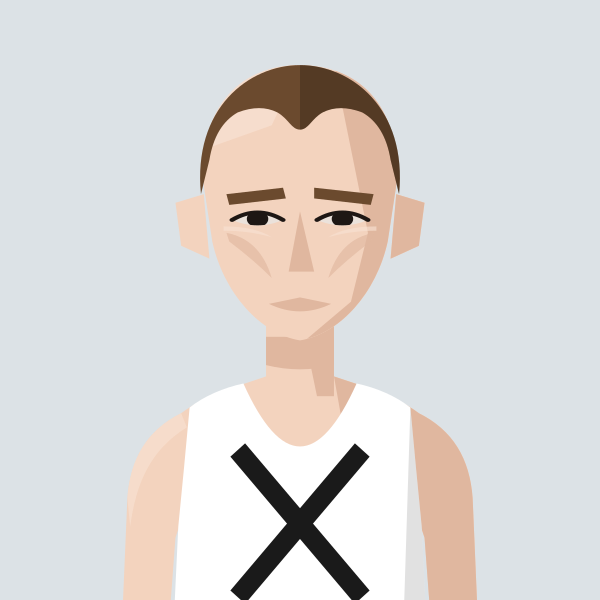
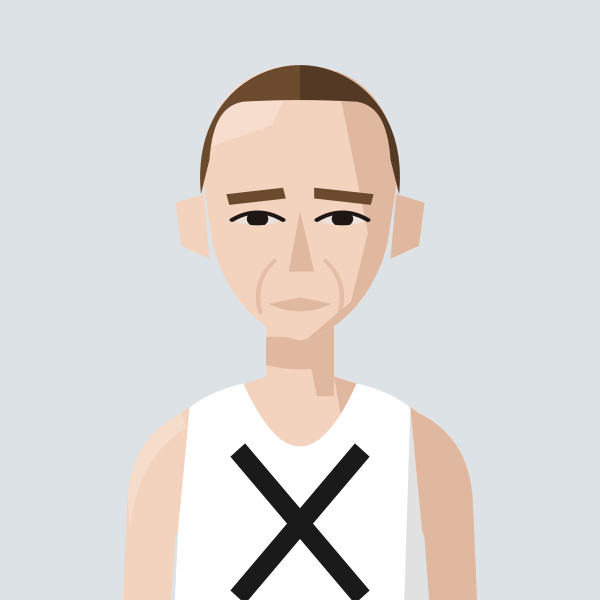
Portrait: Huw Lobb - mouth lines, high straight hairline (new crophigh hair)
Claude-Session: https://claude.ai/code/session_01DgcEr9hQHGiZw2mBbM5jbH

Changed region(s): [[0.33, 0.15, 0.66, 0.24]]

diff --git a/files/index.html b/files/index.html
@@ -755,7 +755,7 @@ return m;})();
 const portraitFile=(name,club)=>{const k=normalizeNameForCompare(name||'').replace(/\s*\(([^)]*)\)$/,(m,c)=>CLUBS[c.toUpperCase()]?'':m);const a=PORTRAITS[k];if(a&&a.club===club)return a.file;const b=PORTRAITS[k+'@'+club];return b?b.file:null;};
 // Athlete header figure: superstar portrait if we have one, else a grey runner in the club vest, else the plain vest icon
 // Changes whenever any portrait changes (set by tools/build_og.py), so browsers fetch fresh images instead of old cached ones
-const PORTRAIT_V='bf4f7633';const PORTRAIT_WOMEN='abbey-brooke,abbie-bulbulian,adele-prince,aimee-hargreaves,aisling-ahern,alex-brown,alex-gandee,alex-marginean,alex-miller,alexa-parker,alexandra-barbour,alice-braham,alice-bridger-morales,alice-crane,alice-martin,alice-reed,alice-smith,alison-purnell,alison-thomson,amelia-pettitt,amy-clements,andrea-barber,anika-schwarze-chintapatla,anna-garnier,anna-garnier-hw,anna-sharp,annabel-hobday,annabelle-hadlow,anne-hegvold,annmarie-seymour,ava-mcandie,becky-briggs,bethan-goddard,bethanie-murray,bethany-brown,betsy-griffiths,billie-mcclosky,camilla-barden,caoimhe-nic-fhogartaigh,carolyne-baxter,catherine-bryson,catherine-eastham,catherine-kandie,cathy-ansell,charlotte-griffiths,chloe-beckett,chloe-tighe,chrissie-wellington,claire-grima,clara-pettit,clare-elms,clare-pauzers,dillan-quinn,dorchie-cockerell,eilidh-hide,elinor-skinner,eliza-grant,elizabeth-apsley,elizabeth-stavreski,ella-fennelly,ella-king-powrie,ella-may-hards,ella-newton,ellen-weir,ellie-brown,ellie-freeden,eloise-bull,emilie-arnoux,emily-barrett,emily-bradley,emily-lowery,emily-robbins,emma-gordon,emma-howsham,emma-lord,emma-rowland,estle-viljoen,evie-warren,felicity-cole,felicity-harrison,felicity-hayward,fi-maddocks,fiona-de-mauny,florence-wiggins,gabby-collison,gabriel-reynolds,gemma-newport,genevieve-blanch,georgia-curry,georgie-bruinvels,georgie-fenn,georgie-furze,georgie-grgec,gina-galbraith,grace-leyland,grace-richardson,hannah-edwards,hannah-english,heather-statham,heather-statham-cc,helena-corbin,helena-keenan,holly-nixon,holly-pan,imogen-mackie,imogen-wolsey,iona-cousland,isabel-bradley,isabel-brinsden,isabelle-pickett,isobel-hodder,jennifer-nandi,jennifer-smith,jess-reed,jess-saunders,jess-winfield,jessica-davies,jessica-lowe,jodie-favell,josephine-rhodes,julia-bleasdale,julia-wedmore,juliet-hodder,jurgita-levertaviciute,justine-lynch,karen-fenner,karen-xiang,karina-box,kate-axford,kate-williams,kathy-sharpe,katie-ellen-french,katie-good,katie-snowden,katy-hedgethorne,kitty-shepherd-cross,kristina-popadich,lara-bromilow,lara-mangan,laura-goodson,laura-miles,lauren-major,lea-adamson,lily-newton,lisa-bailey,lisa-thomas,lisa-thomas-hw,lizzie-goldie-scot,louise-cooper,lucy-jones,lucy-macalister,lucy-peters,lydia-blackmore,lydia-gallyer-barnett,maddie-mastrolonardo,maddy-whitman,maeve-kenny,margaret-coogan,martina-conner,mary-james,mary-setyabule,matilde-lomba,megan-gildea,mel-wilkins,mhairi-hall,mimi-corden-lloyd,molly-oconnor,molly-smith,monika-gajek,naomi-lenane,natalie-beadle,natalie-seymour,natasha-lodge,niamh-thompson,nicky-hayes,nicola-cartlidge,nicola-douglas,nikki-sturzaker,olivia-papaioannou,olivia-stillman,orna-mcginley,pamela-mchutchon,patricia-walker,patrizia-gnoato,penny-oliver,rachel-brown,rebecca-barrow,rebekah-edgar,ruby-carter,ruby-whyte-wilding,ruby-woolfe,sally-urquhart,sam-whiting,samantha-munday,sarah-astin,sarah-dewhirst,sarah-grover,sarah-hanley,sarah-holt,sarah-murphy,sarah-palmer,sarah-palmer-ran,sarah-riceman,sarah-young,saron-haileselase,serena-carter,sophie-cowper,sophie-harris,sophie-hicks,sophie-tooley,stacey-ward,steph-hewitt,steph-mccall,steph-mccall-cc,steph-mccall-slh,steph-mitchell,suzanne-swaine,suze-spalding,suzie-harvey,suzy-whatmough,teresa-murphy,tilly-heaton,tilly-heaton-bel,tish-jones,vic-cartwright,vicky-clarke,victoria-barthelmess,victoria-buck,vikki-filsell,zoe-doyle,zoe-macdonald,zuzana-nemeckova';const PORTRAIT_MEN='aaron-wilson,abdulla-elsadig,adam-leane,adrian-major,adrien-royer,alan-black,alan-mead,alex-brecker,alex-bruce-littlewood,alex-gutteridge,alex-harris,alex-howard,alex-janiaud,alex-lee,alex-lennon,alex-mills,alex-milne,alex-morales,alex-robinson,alex-yee,alexander-marks,amittai-ben-israel,andrew-cumine,andrew-green,andrew-penney,andrew-perfect,andrew-simms,andrew-warburton,andrius-jaksevicius,andy-coley-maud,andy-coley-maud-cc,andy-fyfe,andy-north,andy-paton,andy-weir,angus-butler,angus-lamb,anisse-ismaili,arlo-ludewick,arne-dumez,arthur-peel,ashley-goncalves,barnaby-day,barry-collins,barry-sawyer,ben-clarke,ben-harding,ben-hurley,ben-ireland,ben-millar,ben-paviour,ben-pearce,ben-racle,ben-revill,ben-reynolds,ben-scott,ben-toomer,benedict-whitby,benjamin-hilson,bernie-ford,bill-kerr,bill-weller,bill-weller-wal,bob-harrison,bob-holt,bob-lunnon,bob-rayman,bob-smith,bradley-courtney-pinn,brandon-dewar,brian-gorman,brian-wilder,caleb-hathaway,callum-stewart,cameron-dockerill,cameron-reilly,carl-delaney,charles-herrington,charlie-dabbs,charlie-dickinson,charlie-eastaugh,charlie-manning,charlie-pickett,charlie-rogers,charlie-sandison,charlie-walker,charlie-wyllie,che-compton,chris-busaileh,chris-busaileh-hhh,chris-greenwood,chris-keavey,chris-moss,chris-steer,chris-threadgold,chris-warren,christian-lee,christopher-parker,clive-gilby,clive-shippen,colin-high,colin-pearson,conall-mcnally,conall-whelan,craig-ruddy,dame-dibaba,dan-cliffe,dan-pettitt,daniel-shaw,daniel-wolff,dave-beard,dave-beaver,dave-glassborow,dave-holt,dave-taylor,david-anderson,david-bowers,david-grima,david-north,david-ogden,david-symons,david-walsh,david-williams,deron-fagan,dick-piotrowski,dimos-evangelidis,dominic-kiralyfi,don-anderson,don-faircloth,don-maclean,doug-maughan,duncan-rimmer,dylan-evans,dylan-mitchard,ed-brewer,ed-catmur,ed-gibson,ed-mallett,eddie-herridge,eddie-jodrell,eddie-rolls,edward-chuck,eoin-brady,eoin-molloy,ethan-mccolgan,falilou-kebe,findlay-dyer,finn-johnson,fintan-pearce,frank-tickner,frank-ward,fred-paget,fred-slemeck,freddie-hessian,garret-lee,gary-ribbons,gary-ribbons-ee,gary-staines,gavin-eccles,geoff-biscoe,geoff-jerwood,geoff-north,george-cotton,george-gathercole,george-jackson,george-loxton,george-mallett,george-ogden,gerry-adams,gerry-north,glen-keegan,gordon-pearce,graham-macky,harrison-hayman,harry-guttridge,hector-revill,henry-hart,henry-silverstein,hugo-hewitt,huw-lobb,ian-acreman,ian-crowe-wright,ian-ellwood,ian-harkness,indy-barnes,isaac-lutaya,isaac-parker,jack-brotchie,jack-dickson,jack-dormer,jack-hampshire,jack-harrison,jack-hobden,jack-kavanagh,jack-millar,jack-ramm,jack-woods,jacob-brockmann,jake-simmonds,james-bartram,james-blackwood,james-bowler,james-estall,james-ewing,james-fox,james-hancock,james-harvey,james-hoad,james-kelly,james-mcmullan,james-murray,james-nutt,james-preston,james-roberts,james-stockings,james-ward,james-wootton,jamie-crowe,jamie-parkinson,jared-martin,jean-paul-wright,jeff-cunningham,jeremy-dempsey,jermaine-mays,jerry-watson,jim-allchin,jim-rimmer,joe-english,joe-hartley,john-baker,john-bicourt,john-bromley,john-davies,john-dear,john-foss,john-foxall,john-gilbert,john-gladwin,john-hutchins,john-kendall,john-kimaiyo,john-lee,john-lethbridge,john-mather,john-moore,john-roberts,john-sanderson,john-stow,john-sullivan,john-thresher,jon-hobbs,jon-pepper,jon-pepper-slh,jon-phillips,jon-solly,jonathan-cocker,jonathan-collier,jonathan-cornish,jonathan-ratcliffe,jonathan-tipper,jonathon-blackledge,jonny-neville,jonny-scott,jordan-weaver,josh-mitchell,josh-snow,josh-trigwell,jules-gevers,junior-galley,justin-chaston,justin-reid,kassa-tadesse,keith-newton,kevin-nash,kevin-quinn,kevin-sturman,kieran-barnes,kieran-white,knut-hegvold,knut-hegvold-bel,larry-ryan,lawrence-avery,lee-lintern,lewis-lloyd,liam-burthem,lionel-mann,lloyd-kempson,luke-caldwell,mack-downie,malachi-byansi,marcello-bizio,marcelo-fortes,marco-mazzotta,mark-anderson,mark-miles,mark-sinclair,mark-tennyson,mark-waller,martin-dent,martin-lake,martin-lewington,martin-shore,mathew-speed,matt-chaston,matt-jones,matt-wood,matthew-edgar,matthew-houchell,matthew-thomas,matthew-varley,max-bloor,max-heyden,max-milarvie,max-nicholls,michael-baker,michael-mccarthy,mick-woods,mike-beevor,mike-boyle,mike-cummings,mike-farmery,mike-fuller,mike-hayes,mike-kortenray,mike-nouch,mohammed-ismail,monty-hudson,morgan-roberts,nathan-visick,neil-chisholm,neil-phillips,neil-speaight,neil-wilson,nic-lukies,nick-acfield,nick-altmann,nick-bester,nick-bester-hhh,nick-buckle,nick-bundle,nick-goolab,nick-lightfoot,nick-morris,nick-torry,noah-fernandez,norman-stairs,oli-carrington,oliver-carrington,oliver-fox,oliver-reynolds,oliver-young,ollie-foote,ollie-garrod,olly-buck,owen-hind,paddy-roddy,pancho-panchev,paskar-owor,pat-newell,patrick-mcdougall,paul-calver,paul-cheetham,paul-freary,paul-magner,paul-pollock,paul-sanderson,paul-sanderson-wok,pete-carton,pete-gardner,peter-clarke,peter-giles,peter-giles-thh,peter-lighting,phil-carstairs,phil-sanders,phil-sesemann,phil-swinburn,phil-wicks,phil-woodford-smith,raj-paranandi,ralph-street,ranjit-bhatia,ray-foley,reece-edwards,rhys-boorman,rian-mccawley,richard-ashe,richard-giles,richard-henderson,richard-langley,richard-mcdowell,richard-ollington,richard-partridge,richard-sun,richard-ward,rob-armstrong,rob-kelly,rob-tuer,robert-elphick,robert-laing,robert-norville,robert-peacock,robert-sesemann,robin-boon,robin-hudson,roger-alsop,roger-alsop-bel,ron-clark,ron-linstead,ronan-tanguy,rory-mcmahon,rory-orsborn,ross-braden,ross-christie,rowan-board,rowan-crichton,russell-dessaix-chin,ryan-hickey,ryan-mccallister,sam-bramwell,sam-charlton,sam-gebreselassie,sam-haughian,sam-peters,sam-sommerville,sam-tyas,samuel-dames,samuel-wilcock,sean-cordon,sebastian-anthony,simon-baines,simon-coombes,simon-coppard,simon-holmes,simon-rayner,simon-rayner-hw,simon-wade,simon-wade-hhh,simon-waterhouse,simon-williams,simon-wurr,sonny-nicoll,spencer-barden,stephen-mcleod,stephen-sharp,steve-gardner,steve-jones,steve-smythe,steve-smythe-hhh,stuart-beaney,stuart-major,stuart-major-thh,stuart-mccallum,stuart-paton,terry-booth,thomas-dugre,thomas-gandee,thomas-gardner,thomas-renshaw,tim-alexander,tim-eglen,tim-lawrence,tim-watson,toby-cooke,toby-fletcher,tom-austin,tom-cheetham,tom-conlon,tom-davies,tom-gifford,tom-jervis,tom-lole,tom-south,tom-thornley,tommy-taylor,tony-binda,tony-fairclough,tony-harran,trevor-hart,valdis-pauzers,valentin-rigori,vic-maughan,will-cockerell,will-lewis,will-marshall,will-scott,will-stockley,william-gardner,yacin-yusuf,zach-nolan';
+const PORTRAIT_V='c4f6521d';const PORTRAIT_WOMEN='abbey-brooke,abbie-bulbulian,adele-prince,aimee-hargreaves,aisling-ahern,alex-brown,alex-gandee,alex-marginean,alex-miller,alexa-parker,alexandra-barbour,alice-braham,alice-bridger-morales,alice-crane,alice-martin,alice-reed,alice-smith,alison-purnell,alison-thomson,amelia-pettitt,amy-clements,andrea-barber,anika-schwarze-chintapatla,anna-garnier,anna-garnier-hw,anna-sharp,annabel-hobday,annabelle-hadlow,anne-hegvold,annmarie-seymour,ava-mcandie,becky-briggs,bethan-goddard,bethanie-murray,bethany-brown,betsy-griffiths,billie-mcclosky,camilla-barden,caoimhe-nic-fhogartaigh,carolyne-baxter,catherine-bryson,catherine-eastham,catherine-kandie,cathy-ansell,charlotte-griffiths,chloe-beckett,chloe-tighe,chrissie-wellington,claire-grima,clara-pettit,clare-elms,clare-pauzers,dillan-quinn,dorchie-cockerell,eilidh-hide,elinor-skinner,eliza-grant,elizabeth-apsley,elizabeth-stavreski,ella-fennelly,ella-king-powrie,ella-may-hards,ella-newton,ellen-weir,ellie-brown,ellie-freeden,eloise-bull,emilie-arnoux,emily-barrett,emily-bradley,emily-lowery,emily-robbins,emma-gordon,emma-howsham,emma-lord,emma-rowland,estle-viljoen,evie-warren,felicity-cole,felicity-harrison,felicity-hayward,fi-maddocks,fiona-de-mauny,florence-wiggins,gabby-collison,gabriel-reynolds,gemma-newport,genevieve-blanch,georgia-curry,georgie-bruinvels,georgie-fenn,georgie-furze,georgie-grgec,gina-galbraith,grace-leyland,grace-richardson,hannah-edwards,hannah-english,heather-statham,heather-statham-cc,helena-corbin,helena-keenan,holly-nixon,holly-pan,imogen-mackie,imogen-wolsey,iona-cousland,isabel-bradley,isabel-brinsden,isabelle-pickett,isobel-hodder,jennifer-nandi,jennifer-smith,jess-reed,jess-saunders,jess-winfield,jessica-davies,jessica-lowe,jodie-favell,josephine-rhodes,julia-bleasdale,julia-wedmore,juliet-hodder,jurgita-levertaviciute,justine-lynch,karen-fenner,karen-xiang,karina-box,kate-axford,kate-williams,kathy-sharpe,katie-ellen-french,katie-good,katie-snowden,katy-hedgethorne,kitty-shepherd-cross,kristina-popadich,lara-bromilow,lara-mangan,laura-goodson,laura-miles,lauren-major,lea-adamson,lily-newton,lisa-bailey,lisa-thomas,lisa-thomas-hw,lizzie-goldie-scot,louise-cooper,lucy-jones,lucy-macalister,lucy-peters,lydia-blackmore,lydia-gallyer-barnett,maddie-mastrolonardo,maddy-whitman,maeve-kenny,margaret-coogan,martina-conner,mary-james,mary-setyabule,matilde-lomba,megan-gildea,mel-wilkins,mhairi-hall,mimi-corden-lloyd,molly-oconnor,molly-smith,monika-gajek,naomi-lenane,natalie-beadle,natalie-seymour,natasha-lodge,niamh-thompson,nicky-hayes,nicola-cartlidge,nicola-douglas,nikki-sturzaker,olivia-papaioannou,olivia-stillman,orna-mcginley,pamela-mchutchon,patricia-walker,patrizia-gnoato,penny-oliver,rachel-brown,rebecca-barrow,rebekah-edgar,ruby-carter,ruby-whyte-wilding,ruby-woolfe,sally-urquhart,sam-whiting,samantha-munday,sarah-astin,sarah-dewhirst,sarah-grover,sarah-hanley,sarah-holt,sarah-murphy,sarah-palmer,sarah-palmer-ran,sarah-riceman,sarah-young,saron-haileselase,serena-carter,sophie-cowper,sophie-harris,sophie-hicks,sophie-tooley,stacey-ward,steph-hewitt,steph-mccall,steph-mccall-cc,steph-mccall-slh,steph-mitchell,suzanne-swaine,suze-spalding,suzie-harvey,suzy-whatmough,teresa-murphy,tilly-heaton,tilly-heaton-bel,tish-jones,vic-cartwright,vicky-clarke,victoria-barthelmess,victoria-buck,vikki-filsell,zoe-doyle,zoe-macdonald,zuzana-nemeckova';const PORTRAIT_MEN='aaron-wilson,abdulla-elsadig,adam-leane,adrian-major,adrien-royer,alan-black,alan-mead,alex-brecker,alex-bruce-littlewood,alex-gutteridge,alex-harris,alex-howard,alex-janiaud,alex-lee,alex-lennon,alex-mills,alex-milne,alex-morales,alex-robinson,alex-yee,alexander-marks,amittai-ben-israel,andrew-cumine,andrew-green,andrew-penney,andrew-perfect,andrew-simms,andrew-warburton,andrius-jaksevicius,andy-coley-maud,andy-coley-maud-cc,andy-fyfe,andy-north,andy-paton,andy-weir,angus-butler,angus-lamb,anisse-ismaili,arlo-ludewick,arne-dumez,arthur-peel,ashley-goncalves,barnaby-day,barry-collins,barry-sawyer,ben-clarke,ben-harding,ben-hurley,ben-ireland,ben-millar,ben-paviour,ben-pearce,ben-racle,ben-revill,ben-reynolds,ben-scott,ben-toomer,benedict-whitby,benjamin-hilson,bernie-ford,bill-kerr,bill-weller,bill-weller-wal,bob-harrison,bob-holt,bob-lunnon,bob-rayman,bob-smith,bradley-courtney-pinn,brandon-dewar,brian-gorman,brian-wilder,caleb-hathaway,callum-stewart,cameron-dockerill,cameron-reilly,carl-delaney,charles-herrington,charlie-dabbs,charlie-dickinson,charlie-eastaugh,charlie-manning,charlie-pickett,charlie-rogers,charlie-sandison,charlie-walker,charlie-wyllie,che-compton,chris-busaileh,chris-busaileh-hhh,chris-greenwood,chris-keavey,chris-moss,chris-steer,chris-threadgold,chris-warren,christian-lee,christopher-parker,clive-gilby,clive-shippen,colin-high,colin-pearson,conall-mcnally,conall-whelan,craig-ruddy,dame-dibaba,dan-cliffe,dan-pettitt,daniel-shaw,daniel-wolff,dave-beard,dave-beaver,dave-glassborow,dave-holt,dave-taylor,david-anderson,david-bowers,david-grima,david-north,david-ogden,david-symons,david-walsh,david-williams,deron-fagan,dick-piotrowski,dimos-evangelidis,dominic-kiralyfi,don-anderson,don-faircloth,don-maclean,doug-maughan,duncan-rimmer,dylan-evans,dylan-mitchard,ed-brewer,ed-catmur,ed-gibson,ed-mallett,eddie-herridge,eddie-jodrell,eddie-rolls,edward-chuck,eoin-brady,eoin-molloy,ethan-mccolgan,falilou-kebe,findlay-dyer,finn-johnson,fintan-pearce,frank-tickner,frank-ward,fred-paget,fred-slemeck,freddie-hessian,garret-lee,gary-ribbons,gary-ribbons-ee,gary-staines,gavin-eccles,geoff-biscoe,geoff-jerwood,geoff-north,george-cotton,george-gathercole,george-jackson,george-loxton,george-mallett,george-ogden,gerry-adams,gerry-north,glen-keegan,gordon-pearce,graham-macky,harrison-hayman,harry-guttridge,hector-revill,henry-hart,henry-silverstein,hugo-hewitt,huw-lobb,ian-acreman,ian-crowe-wright,ian-ellwood,ian-harkness,indy-barnes,isaac-lutaya,isaac-parker,jack-brotchie,jack-dickson,jack-dormer,jack-hampshire,jack-harrison,jack-hobden,jack-kavanagh,jack-millar,jack-ramm,jack-woods,jacob-brockmann,jake-simmonds,james-bartram,james-blackwood,james-bowler,james-estall,james-ewing,james-fox,james-hancock,james-harvey,james-hoad,james-kelly,james-mcmullan,james-murray,james-nutt,james-preston,james-roberts,james-stockings,james-ward,james-wootton,jamie-crowe,jamie-parkinson,jared-martin,jean-paul-wright,jeff-cunningham,jeremy-dempsey,jermaine-mays,jerry-watson,jim-allchin,jim-rimmer,joe-english,joe-hartley,john-baker,john-bicourt,john-bromley,john-davies,john-dear,john-foss,john-foxall,john-gilbert,john-gladwin,john-hutchins,john-kendall,john-kimaiyo,john-lee,john-lethbridge,john-mather,john-moore,john-roberts,john-sanderson,john-stow,john-sullivan,john-thresher,jon-hobbs,jon-pepper,jon-pepper-slh,jon-phillips,jon-solly,jonathan-cocker,jonathan-collier,jonathan-cornish,jonathan-ratcliffe,jonathan-tipper,jonathon-blackledge,jonny-neville,jonny-scott,jordan-weaver,josh-mitchell,josh-snow,josh-trigwell,jules-gevers,junior-galley,justin-chaston,justin-reid,kassa-tadesse,keith-newton,kevin-nash,kevin-quinn,kevin-sturman,kieran-barnes,kieran-white,knut-hegvold,knut-hegvold-bel,larry-ryan,lawrence-avery,lee-lintern,lewis-lloyd,liam-burthem,lionel-mann,lloyd-kempson,luke-caldwell,mack-downie,malachi-byansi,marcello-bizio,marcelo-fortes,marco-mazzotta,mark-anderson,mark-miles,mark-sinclair,mark-tennyson,mark-waller,martin-dent,martin-lake,martin-lewington,martin-shore,mathew-speed,matt-chaston,matt-jones,matt-wood,matthew-edgar,matthew-houchell,matthew-thomas,matthew-varley,max-bloor,max-heyden,max-milarvie,max-nicholls,michael-baker,michael-mccarthy,mick-woods,mike-beevor,mike-boyle,mike-cummings,mike-farmery,mike-fuller,mike-hayes,mike-kortenray,mike-nouch,mohammed-ismail,monty-hudson,morgan-roberts,nathan-visick,neil-chisholm,neil-phillips,neil-speaight,neil-wilson,nic-lukies,nick-acfield,nick-altmann,nick-bester,nick-bester-hhh,nick-buckle,nick-bundle,nick-goolab,nick-lightfoot,nick-morris,nick-torry,noah-fernandez,norman-stairs,oli-carrington,oliver-carrington,oliver-fox,oliver-reynolds,oliver-young,ollie-foote,ollie-garrod,olly-buck,owen-hind,paddy-roddy,pancho-panchev,paskar-owor,pat-newell,patrick-mcdougall,paul-calver,paul-cheetham,paul-freary,paul-magner,paul-pollock,paul-sanderson,paul-sanderson-wok,pete-carton,pete-gardner,peter-clarke,peter-giles,peter-giles-thh,peter-lighting,phil-carstairs,phil-sanders,phil-sesemann,phil-swinburn,phil-wicks,phil-woodford-smith,raj-paranandi,ralph-street,ranjit-bhatia,ray-foley,reece-edwards,rhys-boorman,rian-mccawley,richard-ashe,richard-giles,richard-henderson,richard-langley,richard-mcdowell,richard-ollington,richard-partridge,richard-sun,richard-ward,rob-armstrong,rob-kelly,rob-tuer,robert-elphick,robert-laing,robert-norville,robert-peacock,robert-sesemann,robin-boon,robin-hudson,roger-alsop,roger-alsop-bel,ron-clark,ron-linstead,ronan-tanguy,rory-mcmahon,rory-orsborn,ross-braden,ross-christie,rowan-board,rowan-crichton,russell-dessaix-chin,ryan-hickey,ryan-mccallister,sam-bramwell,sam-charlton,sam-gebreselassie,sam-haughian,sam-peters,sam-sommerville,sam-tyas,samuel-dames,samuel-wilcock,sean-cordon,sebastian-anthony,simon-baines,simon-coombes,simon-coppard,simon-holmes,simon-rayner,simon-rayner-hw,simon-wade,simon-wade-hhh,simon-waterhouse,simon-williams,simon-wurr,sonny-nicoll,spencer-barden,stephen-mcleod,stephen-sharp,steve-gardner,steve-jones,steve-smythe,steve-smythe-hhh,stuart-beaney,stuart-major,stuart-major-thh,stuart-mccallum,stuart-paton,terry-booth,thomas-dugre,thomas-gandee,thomas-gardner,thomas-renshaw,tim-alexander,tim-eglen,tim-lawrence,tim-watson,toby-cooke,toby-fletcher,tom-austin,tom-cheetham,tom-conlon,tom-davies,tom-gifford,tom-jervis,tom-lole,tom-south,tom-thornley,tommy-taylor,tony-binda,tony-fairclough,tony-harran,trevor-hart,valdis-pauzers,valentin-rigori,vic-maughan,will-cockerell,will-lewis,will-marshall,will-scott,will-stockley,william-gardner,yacin-yusuf,zach-nolan';
 // Runners whose dog pops up on their own profile page (a -dog.svg version of their portrait)
 const PROFILE_DOGS=new Set(['john-sanderson','penny-oliver','james-hancock','angus-butler']);
 const AthletePortrait=({name,club,w,fill,onClick,blink})=>{const[failed,setFailed]=useState(false);const file=portraitFile(name,club);const src0=file?`/portraits/athletes/${file}.svg?v=${PORTRAIT_V}`:PORTRAIT_CLUBS.has(club)?`/portraits/clubs/${club.replace(/\//g,'').replace(/&/g,'and')}.svg?v=${PORTRAIT_V}`:null;const blinkSrc=useBlinkSrc(file?(PROFILE_DOGS.has(file)?`/portraits/athletes/${file}-dog.svg?v=${PORTRAIT_V}`:src0):null,!!blink);const src=blinkSrc||src0;if(!src||failed)return<div onClick={onClick} className={onClick?'cursor-pointer':''}><ClubShield club={club} size={w}/></div>;const h=Math.round(w*148/126),ih=Math.round(w*1.4);if(fill)return<div onClick={onClick} className="cursor-pointer" style={{alignSelf:'stretch',minHeight:h,aspectRatio:'126 / 148',flexShrink:0,position:'relative',borderRadius:4,overflow:'hidden'}}><img src={src} alt={file?`Portrait of ${name.replace(/\s*\([^)]*\)$/,'')}`:`Runner in ${CLUBS[club]?.name||club} vest`} style={{position:'absolute',top:0,left:0,display:'block',width:'100%',height:'auto'}} onError={()=>setFailed(true)}/></div>;return<div style={{width:w,height:h,borderRadius:4,overflow:'hidden',flexShrink:0}}><img src={src} alt={file?`Portrait of ${name.replace(/\s*\([^)]*\)$/,'')}`:`Runner in ${CLUBS[club]?.name||club} vest`} width={w} height={ih} style={{display:'block',width:w,height:ih}} onError={()=>setFailed(true)}/></div>;};

diff --git a/tools/gen_portraits.py b/tools/gen_portraits.py
@@ -1462,6 +1462,10 @@ save("mallett", figure("H/W", skin=1, hair="quiff", hair_colour="#5A3E2B", facia
 # Huw Lobb (THH), Oct 2026: Steve sent Man v Horse 2004 and Helsinki 2005 photos. Short receding brown hair, lean narrow face
 save("huw-lobb", figure("THH", skin=1, hair="croppeak", hair_colour="#6B4A2E", gaunt=True, jaw="narrow"))
 
+# Huw Lobb redraw (Oct 2026): Steve - mouth lines rather than cheekbones; high but straight hairline
+HAIR["crophigh"] = '<path d="M65,100 C62,60 82,40 100,40 C118,40 138,60 135,100 L132,84 C131,66 127,58.5 120,57 Q100,55.5 80,57 C73,58.5 69,66 68,84 Z"/>'
+save("huw-lobb", figure("THH", skin=1, hair="crophigh", hair_colour="#6B4A2E", creases=True, jaw="narrow"))
+
 # ---- Site export -------------------------------------------------------------
 # Every live portrait, written to site/<slug>.svg under the exact file name the
 # site uses (files/portraits/athletes/). Most portraits are saved under their
